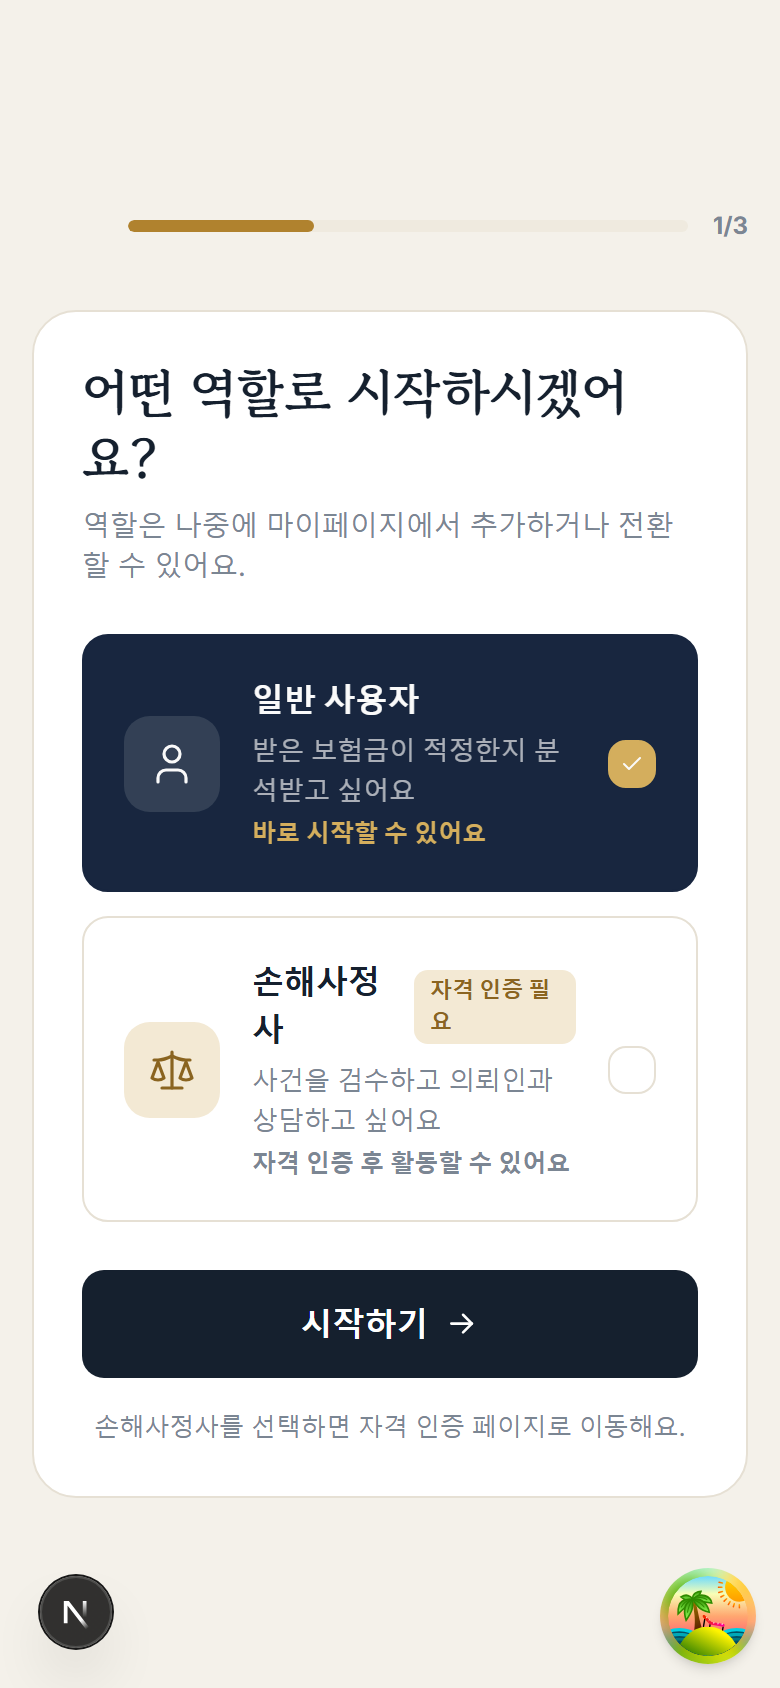
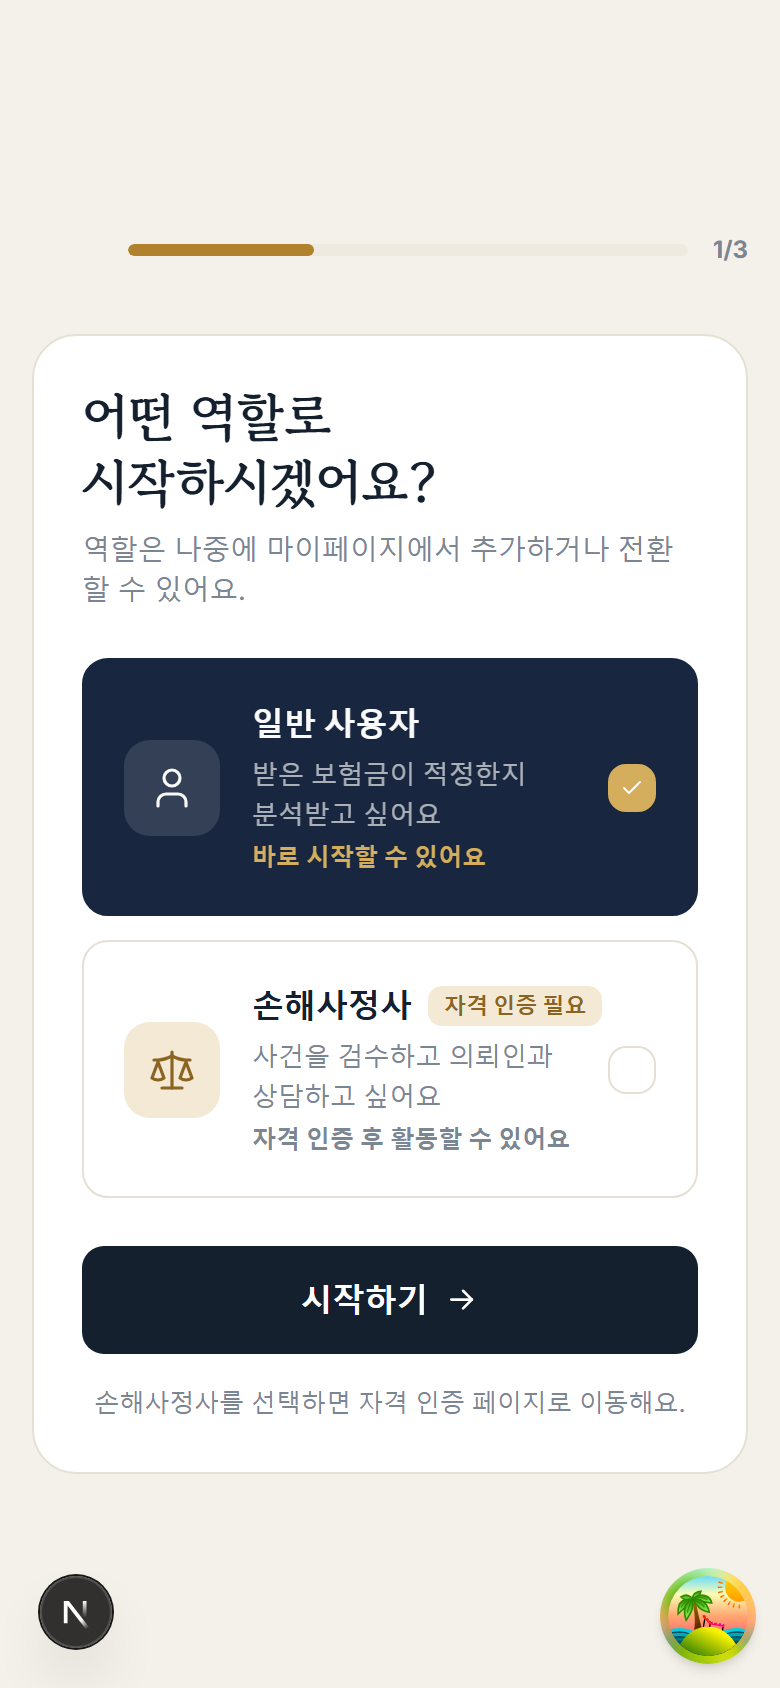
fix : 회원가입 화면 한글 어절 단위 줄바꿈 적용
* 역할 카드 제목·자격 인증 배지 줄바꿈 방지 적용
* 역할 선택 제목·카드 설명·자격 인증 안내 문구 어절 단위 줄바꿈 적용
* 역할 선택 화면 스크린샷 재캡처

diff --git a/apps/web/src/app/(auth)/signup/_components/RoleCard.tsx b/apps/web/src/app/(auth)/signup/_components/RoleCard.tsx
@@ -38,18 +38,18 @@ export function RoleCard({ icon, title, description, hint, badge, selected, onSe
 
       <span className="min-w-0 flex-1">
         <span className="flex items-center gap-2">
-          <span className={cn("text-base font-bold", selected ? "text-white" : "text-ink")}>
+          <span className={cn("shrink-0 text-base font-bold", selected ? "text-white" : "text-ink")}>
             {title}
           </span>
           {badge && (
-            <span className="rounded-pill bg-gold-soft px-2 py-0.5 text-[0.6875rem] font-bold text-gold-ink">
+            <span className="whitespace-nowrap rounded-pill bg-gold-soft px-2 py-0.5 text-[0.6875rem] font-bold text-gold-ink">
               {badge}
             </span>
           )}
         </span>
         <span
           className={cn(
-            "mt-1 block text-[0.8125rem]",
+            "mt-1 block break-keep text-[0.8125rem]",
             selected ? "text-white/65" : "text-ink-3",
           )}
         >

diff --git a/apps/web/src/app/(auth)/signup/_components/AdjusterNotice.tsx b/apps/web/src/app/(auth)/signup/_components/AdjusterNotice.tsx
@@ -25,7 +25,7 @@ export function AdjusterNotice({ onClose, onProceed }: AdjusterNoticeProps) {
         <h2 id="adjuster-notice-title" className="mt-4 font-serif text-xl font-bold text-ink">
           자격 인증이 필요해요
         </h2>
-        <p className="mt-2 text-sm leading-relaxed text-ink-2">
+        <p className="mt-2 break-keep text-sm leading-relaxed text-ink-2">
           손해사정사로 활동하려면 자격 인증을 먼저 완료해야 해요. 자격 인증 페이지로 이동해
           진행할 수 있어요.
         </p>

diff --git a/apps/web/src/app/(auth)/signup/_components/RoleSelectStep.tsx b/apps/web/src/app/(auth)/signup/_components/RoleSelectStep.tsx
@@ -15,7 +15,7 @@ interface RoleSelectStepProps {
 export function RoleSelectStep({ selected, onSelect, onStart }: RoleSelectStepProps) {
   return (
     <div>
-      <h1 className="font-serif text-[1.625rem] font-bold leading-tight text-ink">
+      <h1 className="break-keep font-serif text-[1.625rem] font-bold leading-tight text-ink">
         어떤 역할로 시작하시겠어요?
       </h1>
       <p className="mt-2 text-sm text-ink-3">
